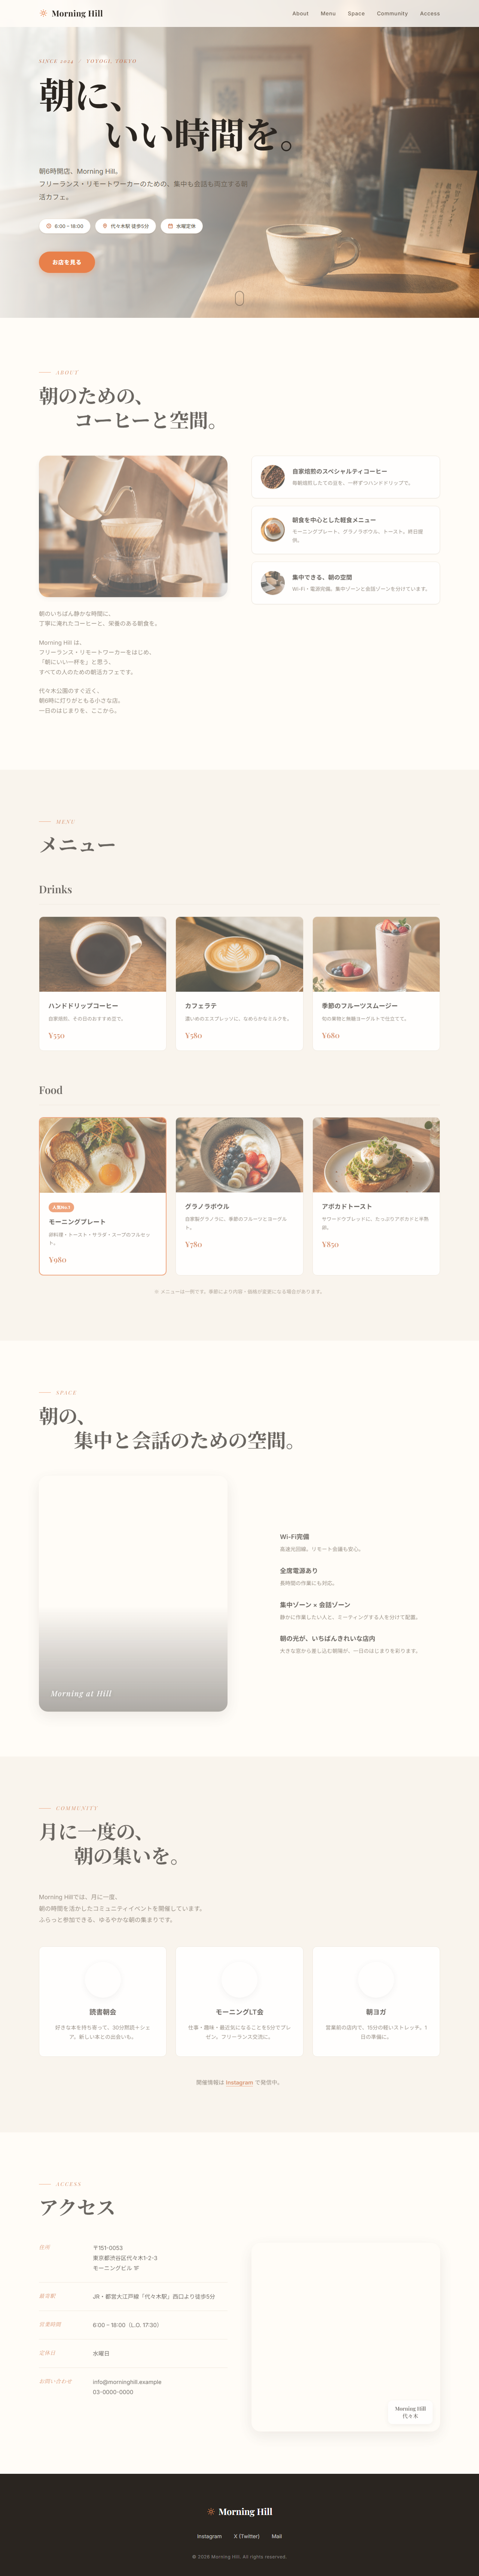
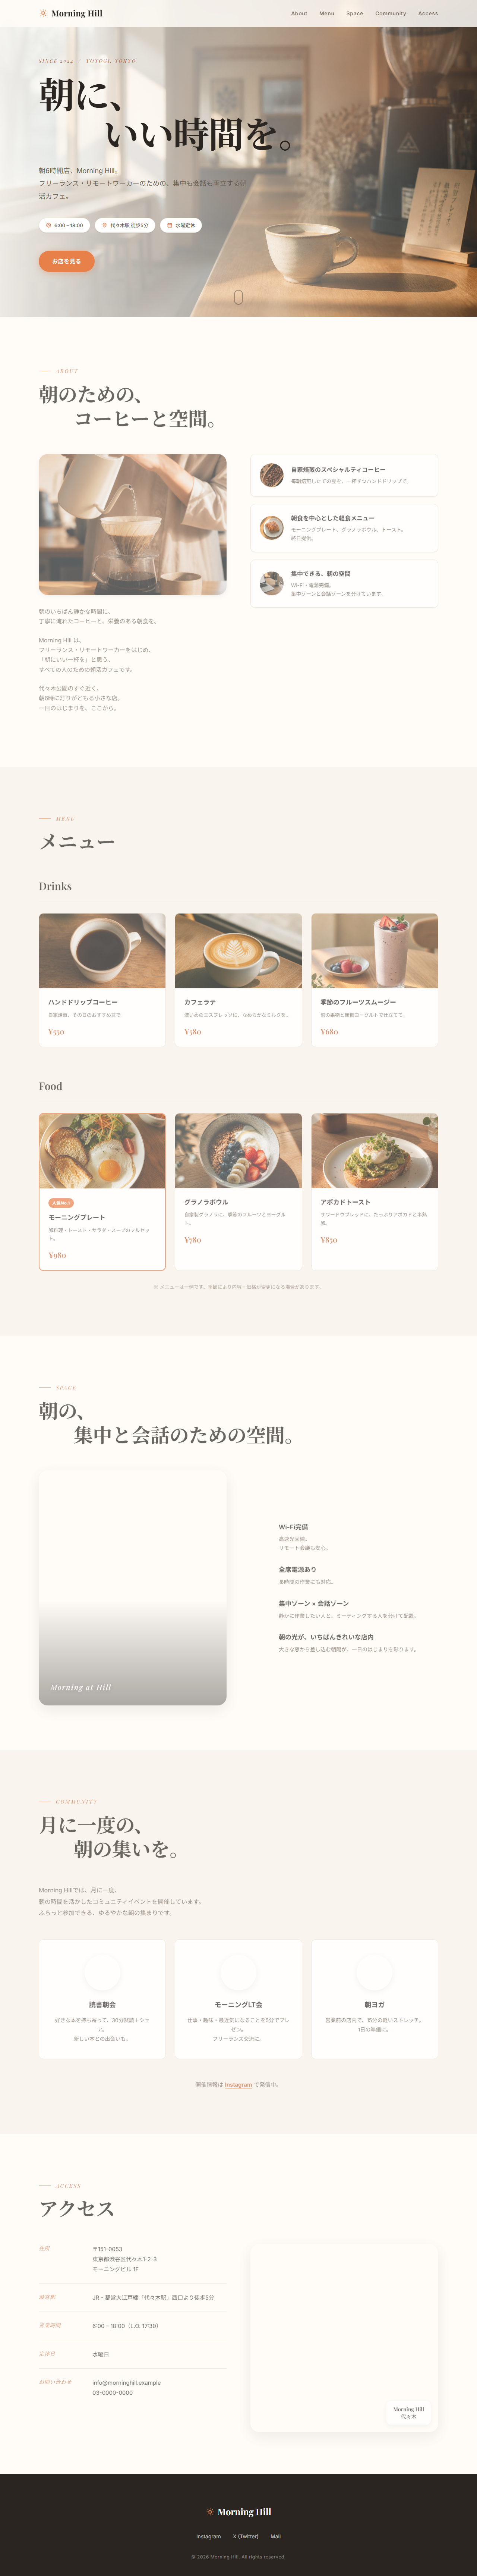
特長・設備・イベントの説明文に改行を追加
- Event card 3つ（読書朝会・LT会・朝ヨガ）の説明を2行に
- About特長「朝食」「集中できる空間」の説明を2行に
- Space設備「Wi-Fi完備」の説明を2行に
- ポートフォリオスクショ撮り直し

diff --git a/index.html b/index.html
@@ -182,7 +182,7 @@
               </div>
               <div>
                 <h3>朝食を中心とした軽食メニュー</h3>
-                <p>モーニングプレート、グラノラボウル、トースト。終日提供。</p>
+                <p>モーニングプレート、グラノラボウル、トースト。<br>終日提供。</p>
               </div>
             </article>
             <article class="feature">
@@ -191,7 +191,7 @@
               </div>
               <div>
                 <h3>集中できる、朝の空間</h3>
-                <p>Wi-Fi・電源完備。集中ゾーンと会話ゾーンを分けています。</p>
+                <p>Wi-Fi・電源完備。<br>集中ゾーンと会話ゾーンを分けています。</p>
               </div>
             </article>
           </div>
@@ -300,7 +300,7 @@
               </span>
               <div>
                 <h3>Wi-Fi完備</h3>
-                <p>高速光回線。リモート会議も安心。</p>
+                <p>高速光回線。<br>リモート会議も安心。</p>
               </div>
             </li>
             <li>
@@ -353,21 +353,21 @@
               <img src="images/icon-reading.png" alt="" loading="lazy" />
             </div>
             <h3>読書朝会</h3>
-            <p>好きな本を持ち寄って、30分黙読＋シェア。新しい本との出会いも。</p>
+            <p>好きな本を持ち寄って、30分黙読＋シェア。<br>新しい本との出会いも。</p>
           </article>
           <article class="event-card">
             <div class="event-icon" aria-hidden="true">
               <img src="images/icon-lt.png" alt="" loading="lazy" />
             </div>
             <h3>モーニングLT会</h3>
-            <p>仕事・趣味・最近気になることを5分でプレゼン。フリーランス交流に。</p>
+            <p>仕事・趣味・最近気になることを5分でプレゼン。<br>フリーランス交流に。</p>
           </article>
           <article class="event-card">
             <div class="event-icon" aria-hidden="true">
               <img src="images/icon-yoga.png" alt="" loading="lazy" />
             </div>
             <h3>朝ヨガ</h3>
-            <p>営業前の店内で、15分の軽いストレッチ。1日の準備に。</p>
+            <p>営業前の店内で、15分の軽いストレッチ。<br>1日の準備に。</p>
           </article>
         </div>
         <p class="community-cta">